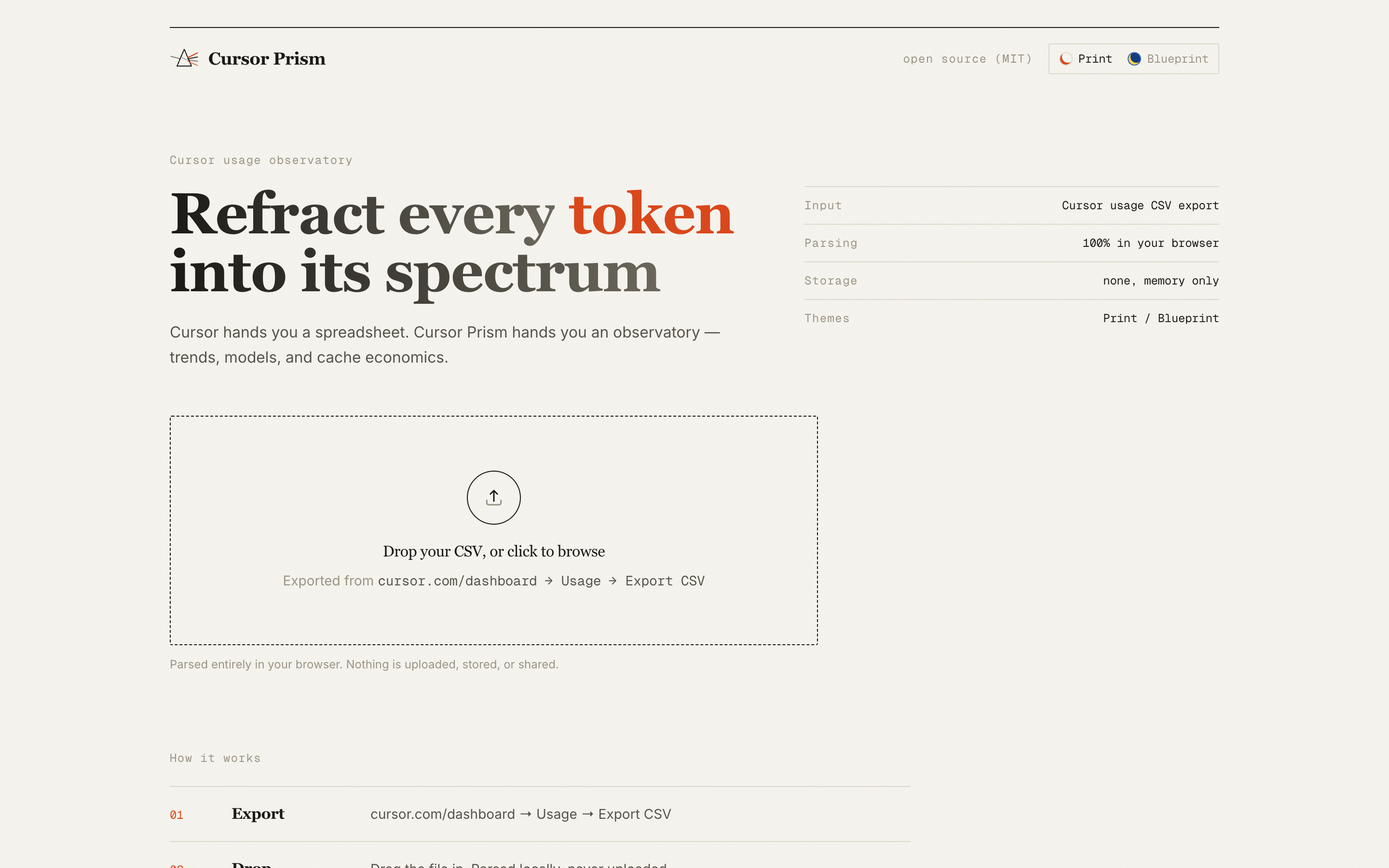
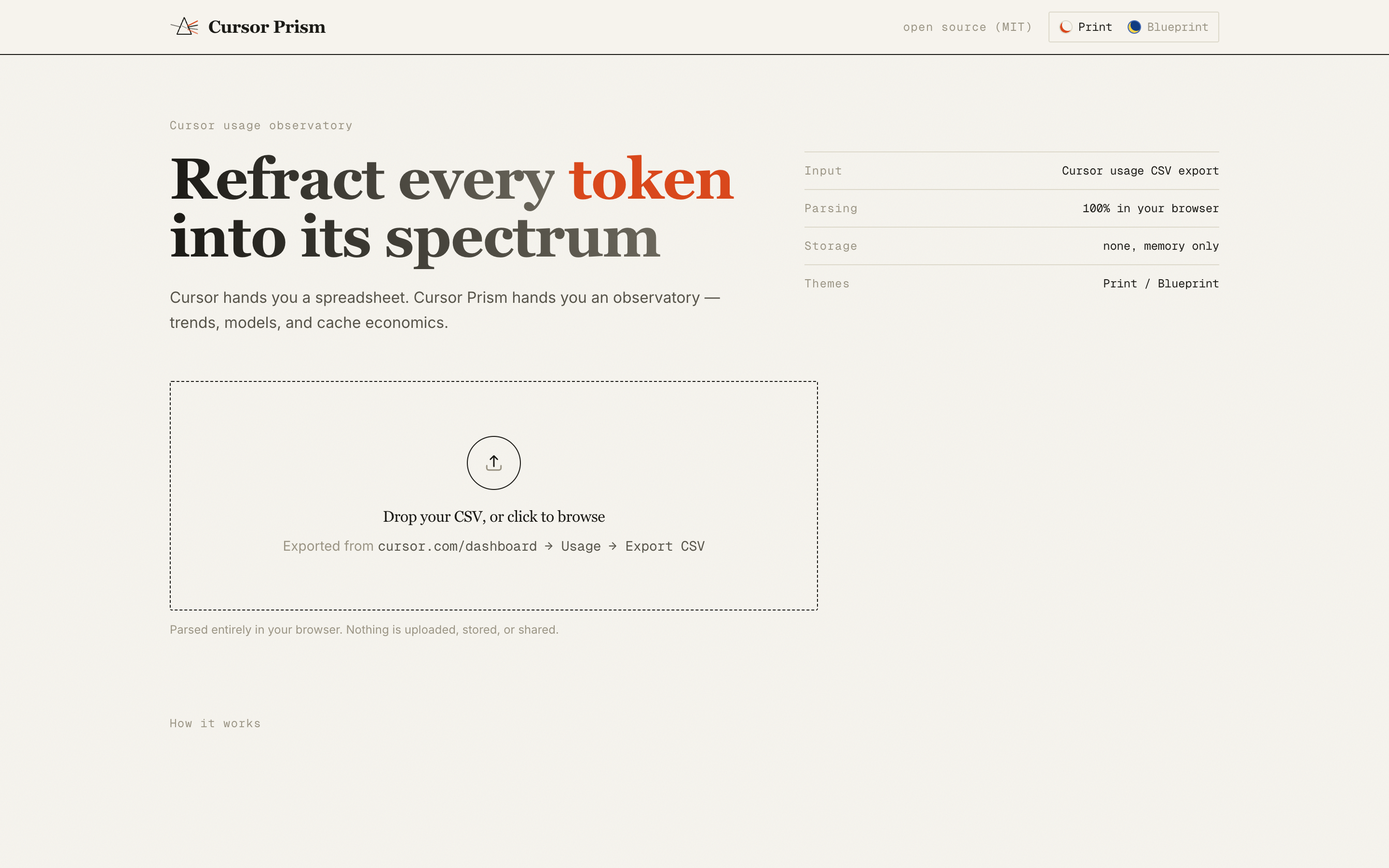
feat(chrome): sticky glass masthead, skeleton loading, spring micro-interactions
Both pages get a sticky masthead: frosted glass over blueprint, a
strong bottom rule on print like a newspaper nameplate. The dashboard
loading state becomes skeleton blocks shaped like the layout that
replaces them.

A --spring easing curve drives small playful lifts on buttons and the
theme switch. Screenshots regenerated to match the new chrome.

diff --git a/src/styles.css b/src/styles.css
@@ -24,6 +24,7 @@
 	--font-display: Georgia, "Times New Roman", serif;
 	--font-body: "Inter", -apple-system, "Helvetica Neue", sans-serif;
 	--ease: cubic-bezier(0.32, 0.72, 0, 1);
+	--spring: cubic-bezier(0.34, 1.56, 0.64, 1);
 	--hero-grad: linear-gradient(90deg, #1b1a16, #6b675c);
 }
 
@@ -42,6 +43,7 @@
 	--font-display: "Geist Mono", ui-monospace, monospace;
 	--font-body: "Geist Mono", ui-monospace, monospace;
 	--ease: cubic-bezier(0.32, 0.72, 0, 1);
+	--spring: cubic-bezier(0.34, 1.56, 0.64, 1);
 	--hero-grad: linear-gradient(90deg, #ffffff, #9b9b9b);
 }
 
@@ -330,11 +332,12 @@ p {
 		background-color 0.25s var(--ease),
 		border-color 0.25s var(--ease),
 		color 0.25s var(--ease),
-		transform 0.15s var(--ease);
+		transform 0.2s var(--spring);
 }
 .btn:hover {
 	color: var(--ink);
 	border-color: var(--line-strong);
+	transform: translateY(-1px);
 }
 .btn:active {
 	transform: scale(0.98);
@@ -405,11 +408,12 @@ p {
 	transition:
 		border-color 0.25s var(--ease),
 		color 0.25s var(--ease),
-		transform 0.15s var(--ease);
+		transform 0.2s var(--spring);
 }
 .btn-quiet:hover {
 	color: var(--ink);
 	border-color: var(--line-strong);
+	transform: translateY(-1px);
 }
 .btn-quiet:active {
 	transform: scale(0.98);
@@ -419,6 +423,41 @@ p {
 }
 [data-theme="blueprint"] .theme-switch {
 	border-style: dashed;
+}
+
+/* Spring physics on small interactive elements */
+.theme-switch button {
+	transition: transform 0.25s var(--spring);
+}
+.theme-switch button:hover {
+	transform: scale(1.06);
+}
+
+/* Skeleton blocks shaped like the layout they replace */
+@keyframes skel-pulse {
+	50% {
+		opacity: 0.45;
+	}
+}
+.skel {
+	background: var(--line);
+	border-radius: var(--radius);
+	animation: skel-pulse 1.4s var(--ease) infinite;
+}
+
+/* Sticky glass masthead: the header stays reachable on long pages.
+   Print gets the strong bottom rule — the classic paper masthead. */
+.masthead {
+	position: sticky;
+	top: 0;
+	z-index: 40;
+	background: color-mix(in srgb, var(--bg) 80%, transparent);
+	backdrop-filter: blur(12px);
+	-webkit-backdrop-filter: blur(12px);
+	border-bottom: 1px solid var(--line);
+}
+[data-theme="print"] .masthead {
+	border-bottom-color: var(--line-strong);
 }
 
 /* Hairline rules */

diff --git a/src/routes/dashboard.tsx b/src/routes/dashboard.tsx
@@ -62,9 +62,19 @@ function Dashboard() {
 	};
 
 	if (data.status !== "ready" || !rows || !analytics) {
+		// Skeleton shaped like the real layout while data lands
 		return (
-			<div className="relative flex min-h-dvh items-center justify-center">
-				<div className="kicker animate-pulse">loading spectrum…</div>
+			<div className="relative mx-auto max-w-6xl px-4 pt-6 pb-16 sm:px-6">
+				<div className="mb-8 flex items-center justify-between pt-1">
+					<div className="skel h-6 w-36" />
+					<div className="skel h-8 w-56" />
+				</div>
+				<div className="grid grid-cols-1 gap-3 sm:grid-cols-3">
+					<div className="skel h-20" />
+					<div className="skel h-20" />
+					<div className="skel h-20" />
+				</div>
+				<div className="skel mt-6 h-72" />
 			</div>
 		);
 	}
@@ -73,9 +83,9 @@ function Dashboard() {
 
 	return (
 		<div className="relative min-h-dvh">
-			<div className="relative mx-auto max-w-6xl px-4 pt-6 pb-16 sm:px-6">
-				{/* Top bar */}
-				<header className="fade-in rule-t-strong mb-8 flex flex-wrap items-center justify-between gap-3 pt-4">
+			{/* Sticky glass masthead */}
+			<header className="masthead fade-in">
+				<div className="mx-auto flex max-w-6xl flex-wrap items-center justify-between gap-3 px-4 py-3 sm:px-6">
 					<Link
 						to="/"
 						className="flex items-center gap-2.5 transition-opacity hover:opacity-70"
@@ -110,8 +120,10 @@ function Dashboard() {
 							}}
 						/>
 					</div>
-				</header>
+				</div>
+			</header>
 
+			<div className="relative mx-auto max-w-6xl px-4 pt-6 pb-16 sm:px-6">
 				{error ? (
 					<div
 						className="mb-4 border px-4 py-2.5 text-sm"
